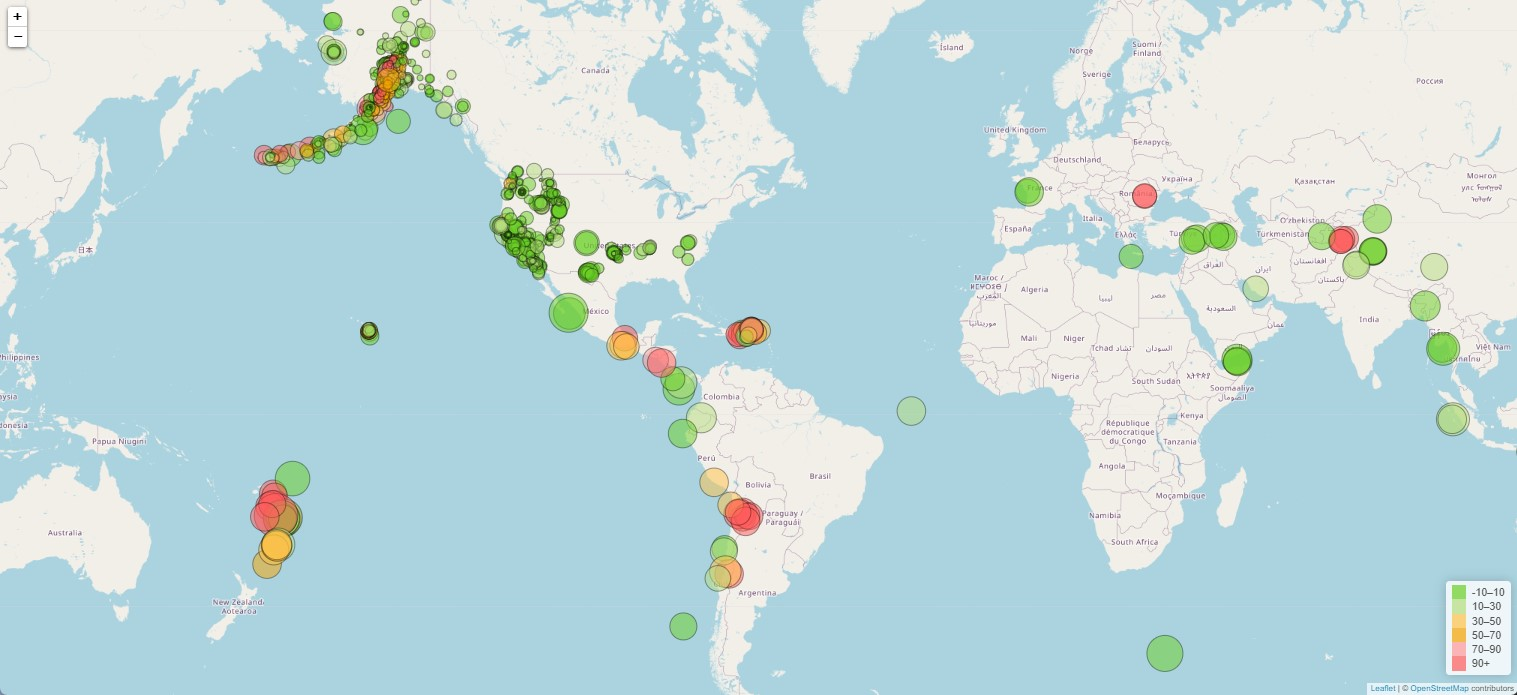
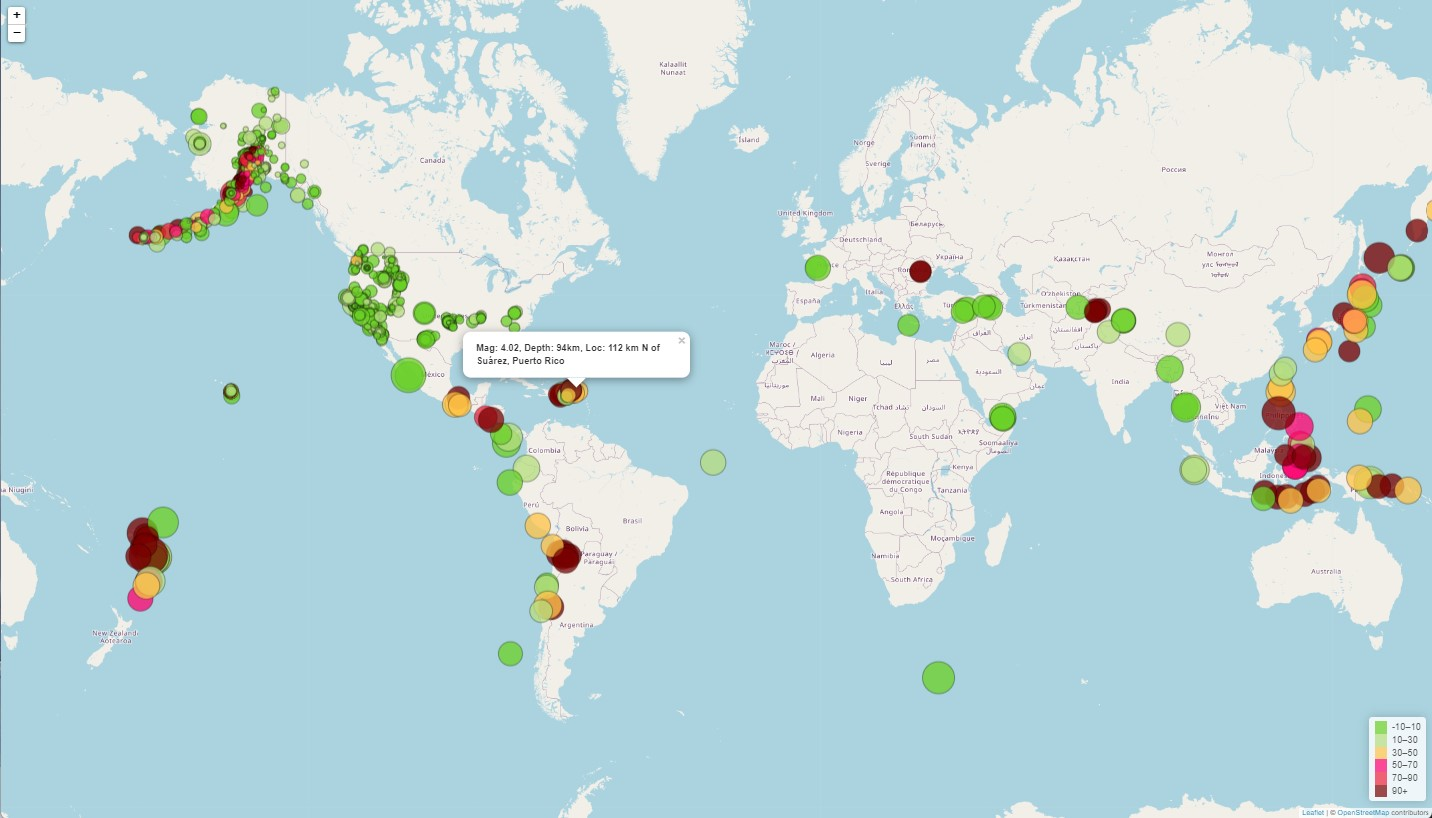
Updated the color scheme and regenerated the images

diff --git a/Leaflet-Part-1/static/js/logic.js b/Leaflet-Part-1/static/js/logic.js
@@ -24,7 +24,7 @@ d3.json(queryUrl).then(function (data) {
     let lat = data.features[i].geometry.coordinates[1];
     let lng = data.features[i].geometry.coordinates[0];
     
-    L.circleMarker([lat, lng], {radius: mag, color:"#000", fillColor: getColor(depth) , fillOpacity: 0.5, weight:0.5})
+    L.circleMarker([lat, lng], {radius: mag, color:"#000", fillColor: getColor(depth) , fillOpacity: 0.75, weight:0.5})
     .bindPopup(`<h3>Mag: ${data.features[i].properties.mag}, Depth: ${depth}km, Loc: ${data.features[i].properties.place}</h3>`)
     .addTo(myMap);
   };
@@ -34,9 +34,9 @@ let legend = L.control({position: "bottomright"});
 
 //Create a function to show the range colors for the density intervals in the legend.
 function getColor(d) {
-  return d > 90 ? '#FF5C5C' :
-         d > 70  ? '#FF9999' :
-         d > 50  ? '#F5A300' :
+  return d > 90 ? '#780000' :
+         d > 70  ? '#EF233C' :
+         d > 50  ? '#FF006E' :
          d > 30  ? '#FFC247' :
          d > 10   ? '#B5DD7E' :
          d > -10   ? '#69D025' :

diff --git a/Leaflet-Part-2/static/js/logic.js b/Leaflet-Part-2/static/js/logic.js
@@ -38,7 +38,7 @@ d3.json(queryUrl).then(function (data) {
       
 // Set objects for the base and the overlay layers.
   let baseMaps = {
-    "Street Map": earthquakeMap,
+    "Outdoor": earthquakeMap,
     "Satellite Map": satelliteMap,
   };
 
@@ -78,9 +78,9 @@ let legend = L.control({position: "bottomright"});
 
 // function to display the earthquake density color
 function getColor(d) {
-  return d > 90 ? '#FF5C5C' :
-         d > 70  ? '#FF9999' :
-         d > 50  ? '#F5A300' :
+  return d > 90 ? '#780000' :
+         d > 70  ? '#EF233C' :
+         d > 50  ? '#FF006E' :
          d > 30  ? '#FFC247' :
          d > 10   ? '#B5DD7E' :
          d > -10   ? '#69D025' :
